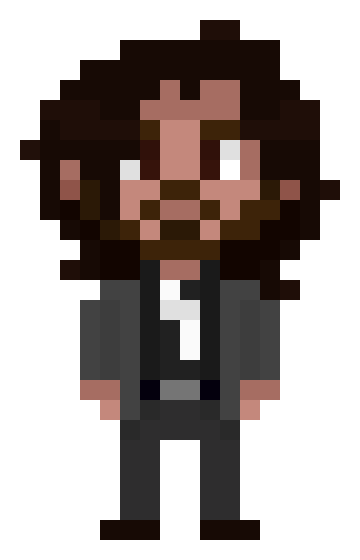
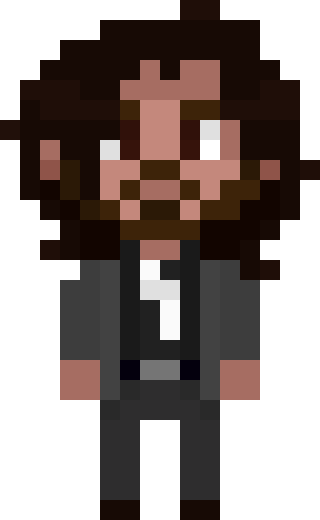
Changed the markiplier sprite, placed the NPC's in their places, and made it so the player can walk diagonally

Changed region(s): [[0.0, 0.0, 1.0, 1.0]]

diff --git a/src/project.py b/src/project.py
@@ -4,10 +4,41 @@ import pygame.freetype
 
 
 class NPC():
-    def __init__(self, character, x, y):
+    def __init__(self, character, identity, x, y):
         self.character = pygame.transform.scale(character, (character.get_width()/2.5, character.get_height()/2.5))
+        self.identifier = identity
         self.x = x
         self.y = y
+
+    def update(self, wdown, adown, sdown, ddown, walking):
+        if wdown:
+            self.y += 16
+        if adown:
+            self.x += 16
+        if sdown:
+            self.y -= 16
+        if ddown:
+            self.x -= 16
+        if sdown and wdown:
+            pass
+        elif ddown and adown: 
+            pass
+        else:
+            if wdown and adown:
+                self.y -= 4
+                self.x -= 4
+            if wdown and ddown:
+                self.y -= 4
+                self.x += 4
+            if sdown and adown:
+                self.y += 4
+                self.x -= 4
+            if sdown and ddown:
+                self.y += 4
+                self.x += 4
+        
+    def draw(self, surface):
+        surface.blit(self.character, (self.x, self.y))
 
 class Spacesea():
     def __init__(self):
@@ -17,17 +48,32 @@ class Spacesea():
         self.x = -631
         self.y = -2054
 
-    def update(self, direction):
-        if direction == "w":
+    def update(self, wdown, adown, sdown, ddown):
+        if wdown:
             self.y += 16
-        elif direction == "a":
+        if adown:
             self.x += 16
-        elif direction == "s":
+        if sdown:
             self.y -= 16
-        elif direction == "d":
+        if ddown:
             self.x -= 16
-        else:
+        if sdown and wdown:
             pass
+        elif ddown and adown: 
+            pass
+        else:
+            if wdown and adown:
+                self.y -= 4
+                self.x -= 4
+            if wdown and ddown:
+                self.y -= 4
+                self.x += 4
+            if sdown and adown:
+                self.y += 4
+                self.x -= 4
+            if sdown and ddown:
+                self.y += 4
+                self.x += 4
 
     def draw(self, surface):
         surface.blit(self.sea, (self.x, self.y))
@@ -38,17 +84,32 @@ class Houseroof():
         self.x = x
         self.y = y
 
-    def update(self, direction):
-        if direction == "w":
+    def update(self, wdown, adown, sdown, ddown):
+        if wdown:
             self.y += 16
-        elif direction == "a":
+        if adown:
             self.x += 16
-        elif direction == "s":
+        if sdown:
             self.y -= 16
-        elif direction == "d":
+        if ddown:
             self.x -= 16
-        else:
+        if sdown and wdown:
             pass
+        elif ddown and adown: 
+            pass
+        else:
+            if wdown and adown:
+                self.y -= 4
+                self.x -= 4
+            if wdown and ddown:
+                self.y -= 4
+                self.x += 4
+            if sdown and adown:
+                self.y += 4
+                self.x -= 4
+            if sdown and ddown:
+                self.y += 4
+                self.x += 4
 
     def draw(self, surface):
         surface.blit(self.roof, (self.x, self.y))
@@ -59,17 +120,33 @@ class Obstructable():
         self.x = x
         self.y = y
     
-    def update(self, direction):
-        if direction == "w":
+    def update(self, wdown, adown, sdown, ddown):
+        if wdown:
             self.y += 16
-        elif direction == "a":
+        if adown:
             self.x += 16
-        elif direction == "s":
+        if sdown:
             self.y -= 16
-        elif direction == "d":
+        if ddown:
             self.x -= 16
-        else:
+        if sdown and wdown:
             pass
+        elif ddown and adown: 
+            pass
+        else:
+            if wdown and adown:
+                self.y -= 4
+                self.x -= 4
+            if wdown and ddown:
+                self.y -= 4
+                self.x += 4
+            if sdown and adown:
+                self.y += 4
+                self.x -= 4
+            if sdown and ddown:
+                self.y += 4
+                self.x += 4
+
     def draw(self, surface):
         surface.blit(self.base, (self.x, self.y))
 
@@ -80,17 +157,32 @@ class Paths():
         self.x = -407
         self.y = -1950
 
-    def update(self, direction):
-        if direction == "w":
+    def update(self, wdown, adown, sdown, ddown):
+        if wdown:
             self.y += 16
-        elif direction == "a":
+        if adown:
             self.x += 16
-        elif direction == "s":
+        if sdown:
             self.y -= 16
-        elif direction == "d":
+        if ddown:
             self.x -= 16
-        else:
+        if sdown and wdown:
             pass
+        elif ddown and adown: 
+            pass
+        else:
+            if wdown and adown:
+                self.y -= 4
+                self.x -= 4
+            if wdown and ddown:
+                self.y -= 4
+                self.x += 4
+            if sdown and adown:
+                self.y += 4
+                self.x -= 4
+            if sdown and ddown:
+                self.y += 4
+                self.x += 4
 
     def draw(self, surface):
         surface.blit(self.background, (self.x, self.y))
@@ -99,36 +191,41 @@ class Player():
 
     def __init__(self):
         self.sprite = pygame.image.load('images\\player\\gloopss.png')
+        self.sprite = pygame.transform.scale(self.sprite, (self.sprite.get_width()/2.5, self.sprite.get_height()/2.5))
     
-    def update(self, direction, lastkey, walking):
-        if direction == "w":
+    def update(self, wdown, adown, sdown, ddown, lastkey, walking):
+        if wdown and not sdown:
             if walking >= 7 and walking <=12:
                 self.sprite = pygame.image.load('images\\player\\back1.png')
             elif walking >= 19:
                 self.sprite = pygame.image.load('images\\player\\back2.png')
             else:
                 self.sprite = pygame.image.load('images\\player\\gloopws.png')
-        elif direction == "a":
-            if walking >= 7 and walking <=12:
-                self.sprite = pygame.image.load('images\\player\\left1.png')
-            elif walking >= 19:
-                self.sprite = pygame.image.load('images\\player\\left2.png')
-            else:
-                self.sprite = pygame.image.load('images\\player\\gloopas.png')
-        elif direction == "s":
+        elif sdown and not wdown:
             if walking >= 7 and walking <=12:
                 self.sprite = pygame.image.load('images\\player\\walk1.png')
             elif walking >= 19:
                 self.sprite = pygame.image.load('images\\player\\walk2.png')
             else:
                 self.sprite = pygame.image.load('images\\player\\gloopss.png')
-        elif direction == "d":
+        elif adown and not ddown:
+            if walking >= 7 and walking <=12:
+                self.sprite = pygame.image.load('images\\player\\left1.png')
+            elif walking >= 19:
+                self.sprite = pygame.image.load('images\\player\\left2.png')
+            else:
+                self.sprite = pygame.image.load('images\\player\\gloopas.png')
+        elif ddown and not adown:
             if walking >= 7 and walking <=12:
                 self.sprite = pygame.image.load('images\\player\\right1.png')
             elif walking >= 19:
                 self.sprite = pygame.image.load('images\\player\\right2.png')
             else:
                 self.sprite = pygame.image.load('images\\player\\gloopds.png')
+        elif adown and ddown:
+            self.sprite = pygame.image.load('images\\player\\gloopss.png')
+        elif wdown and sdown:
+            self.sprite = pygame.image.load('images\\player\\gloopss.png')
         elif lastkey == "w":
             self.sprite = pygame.image.load('images\\player\\gloopws.png')
         elif lastkey == "a":
@@ -137,9 +234,7 @@ class Player():
             self.sprite = pygame.image.load('images\\player\\gloopds.png')
         else:
             self.sprite = pygame.image.load('images\\player\\gloopss.png')
-        width = self.sprite.get_width()
-        height = self.sprite.get_height()
-        self.sprite = pygame.transform.scale(self.sprite, (width/2.2, height/2.2))
+        self.sprite = pygame.transform.scale(self.sprite, (self.sprite.get_width()/2.5, self.sprite.get_height()/2.5))
 
 
     def draw(self, surface, displayInfo):
@@ -152,9 +247,13 @@ def main():
     dt = 0
     res = (1920, 1020)
     screen = pygame.display.set_mode(res, pygame.RESIZABLE)
-    player, background, spacesea, house1base, house2base, house3base, house1roof, house2roof, house3roof, rail1, rail2 = obj_creation()
+    player, background, spacesea, house1base, house2base, house3base, house1roof, house2roof, house3roof, rail1, rail2, tomato, markiplier, furret = obj_creation()
     keydown = ""
     lastkey = ""
+    wdown = False
+    adown = False
+    sdown = False
+    ddown = False
     black = (0,0,0)
     walking = 0
     start_music()
@@ -171,15 +270,15 @@ def main():
                     screen = pygame.display.set_mode((0, 0), pygame.FULLSCREEN)
                 else:
                     screen = pygame.display.set_mode(res, pygame.RESIZABLE)
-        keydown, lastkey = get_keydown(lastkey)
+        wdown, adown, sdown, ddown, lastkey = get_keydown(lastkey)
         # Game Logic
         walking += 1
         if walking >= 25:
             walking = 0
         displayInfo = pygame.display.Info()
-        upd_code(keydown, lastkey, walking, spacesea, background, house1base, house2base, house3base, rail1, rail2, player, house1roof, house2roof, house3roof)
+        upd_code(wdown, adown, sdown, ddown, lastkey, walking, spacesea, background, house1base, house2base, house3base, rail1, rail2, player, house1roof, house2roof, house3roof, tomato, markiplier, furret)
         # Render and Display
-        draw_objects(screen, black, displayInfo, spacesea, background, house1base, house2base, house3base, rail1, rail2, player, house1roof, house2roof, house3roof)
+        draw_objects(screen, black, displayInfo, spacesea, background, house1base, house2base, house3base, rail1, rail2, player, house1roof, house2roof, house3roof, tomato, markiplier, furret)
         pygame.display.flip()
         dt = clock.tick(24)
     pygame.mixer.music.unload()
@@ -197,22 +296,29 @@ def obj_creation():
     house3roof = Houseroof(pygame.image.load('images\\village\\house1roof.png'), 2009, -358)
     rail1 = Obstructable(pygame.image.load('images\\village\\rail1.png'), -399, -526)
     rail2 = Obstructable(pygame.image.load('images\\village\\rail2.png'), 2305, -526)
-    return player, background, spacesea, house1base, house2base, house3base, house1roof, house2roof, house3roof, rail1, rail2
+    tomato = NPC(pygame.image.load('images\\tomato\\tomat.png'), "tomato", -200, -400)
+    markiplier = NPC(pygame.image.load('images\\markiplier\\mark.png'), "mark", 2145, -1446)
+    furret = NPC(pygame.image.load('images\\furret\\furret1.png'), "furret", 2401, -1062)
 
-def upd_code(keydown, lastkey, walking, spacesea, background, house1base, house2base, house3base, rail1, rail2, player, house1roof, house2roof, house3roof):
-    spacesea.update(keydown)
-    background.update(keydown)
-    house1base.update(keydown)
-    house2base.update(keydown)
-    house3base.update(keydown)
-    rail1.update(keydown)
-    rail2.update(keydown)
-    player.update(keydown, lastkey, walking)
-    house1roof.update(keydown)
-    house2roof.update(keydown)
-    house3roof.update(keydown)
+    return player, background, spacesea, house1base, house2base, house3base, house1roof, house2roof, house3roof, rail1, rail2, tomato, markiplier, furret
 
-def draw_objects(screen, black, displayInfo, spacesea, background, house1base, house2base, house3base, rail1, rail2, player, house1roof, house2roof, house3roof):
+def upd_code(wdown, adown, sdown, ddown, lastkey, walking, spacesea, background, house1base, house2base, house3base, rail1, rail2, player, house1roof, house2roof, house3roof, tomato, markiplier, furret):
+    spacesea.update(wdown, adown, sdown, ddown)
+    background.update(wdown, adown, sdown, ddown)
+    house1base.update(wdown, adown, sdown, ddown)
+    house2base.update(wdown, adown, sdown, ddown)
+    house3base.update(wdown, adown, sdown, ddown)
+    rail1.update(wdown, adown, sdown, ddown)
+    rail2.update(wdown, adown, sdown, ddown)
+    tomato.update(wdown, adown, sdown, ddown, walking)
+    markiplier.update(wdown, adown, sdown, ddown, walking)
+    furret.update(wdown, adown, sdown, ddown, walking)
+    player.update(wdown, adown, sdown, ddown, lastkey, walking)
+    house1roof.update(wdown, adown, sdown, ddown)
+    house2roof.update(wdown, adown, sdown, ddown)
+    house3roof.update(wdown, adown, sdown, ddown)
+
+def draw_objects(screen, black, displayInfo, spacesea, background, house1base, house2base, house3base, rail1, rail2, player, house1roof, house2roof, house3roof, tomato, markiplier, furret):
     screen.fill(black)
     spacesea.draw(screen)
     background.draw(screen)
@@ -221,6 +327,9 @@ def draw_objects(screen, black, displayInfo, spacesea, background, house1base, h
     house3base.draw(screen)
     rail1.draw(screen)
     rail2.draw(screen)
+    tomato.draw(screen)
+    markiplier.draw(screen)
+    furret.draw(screen)
     player.draw(screen, displayInfo)
     house1roof.draw(screen)
     house2roof.draw(screen)
@@ -230,19 +339,23 @@ def get_keydown(lastkey):
     pressed = pygame.key.get_pressed()
     keydown=""
     lastkey = lastkey
+    wdown = False
+    adown = False
+    sdown = False
+    ddown = False
     if pressed[pygame.K_w]:
-        keydown = "w"
+        wdown = True
         lastkey = "w"
-    elif pressed[pygame.K_a]:
-        keydown = "a"
+    if pressed[pygame.K_a]:
+        adown = True
         lastkey = "a"
-    elif pressed[pygame.K_s]:
-        keydown = "s"
+    if pressed[pygame.K_s]:
+        sdown = True
         lastkey = "s"
-    elif pressed[pygame.K_d]:
-        keydown = "d"
+    if pressed[pygame.K_d]:
+        ddown = True
         lastkey = "d"
-    return keydown, lastkey
+    return wdown, adown, sdown, ddown, lastkey
 
 def start_music():
     pygame.mixer.music.load('audio\\astoryabouttheendoftheworld.mp3')
